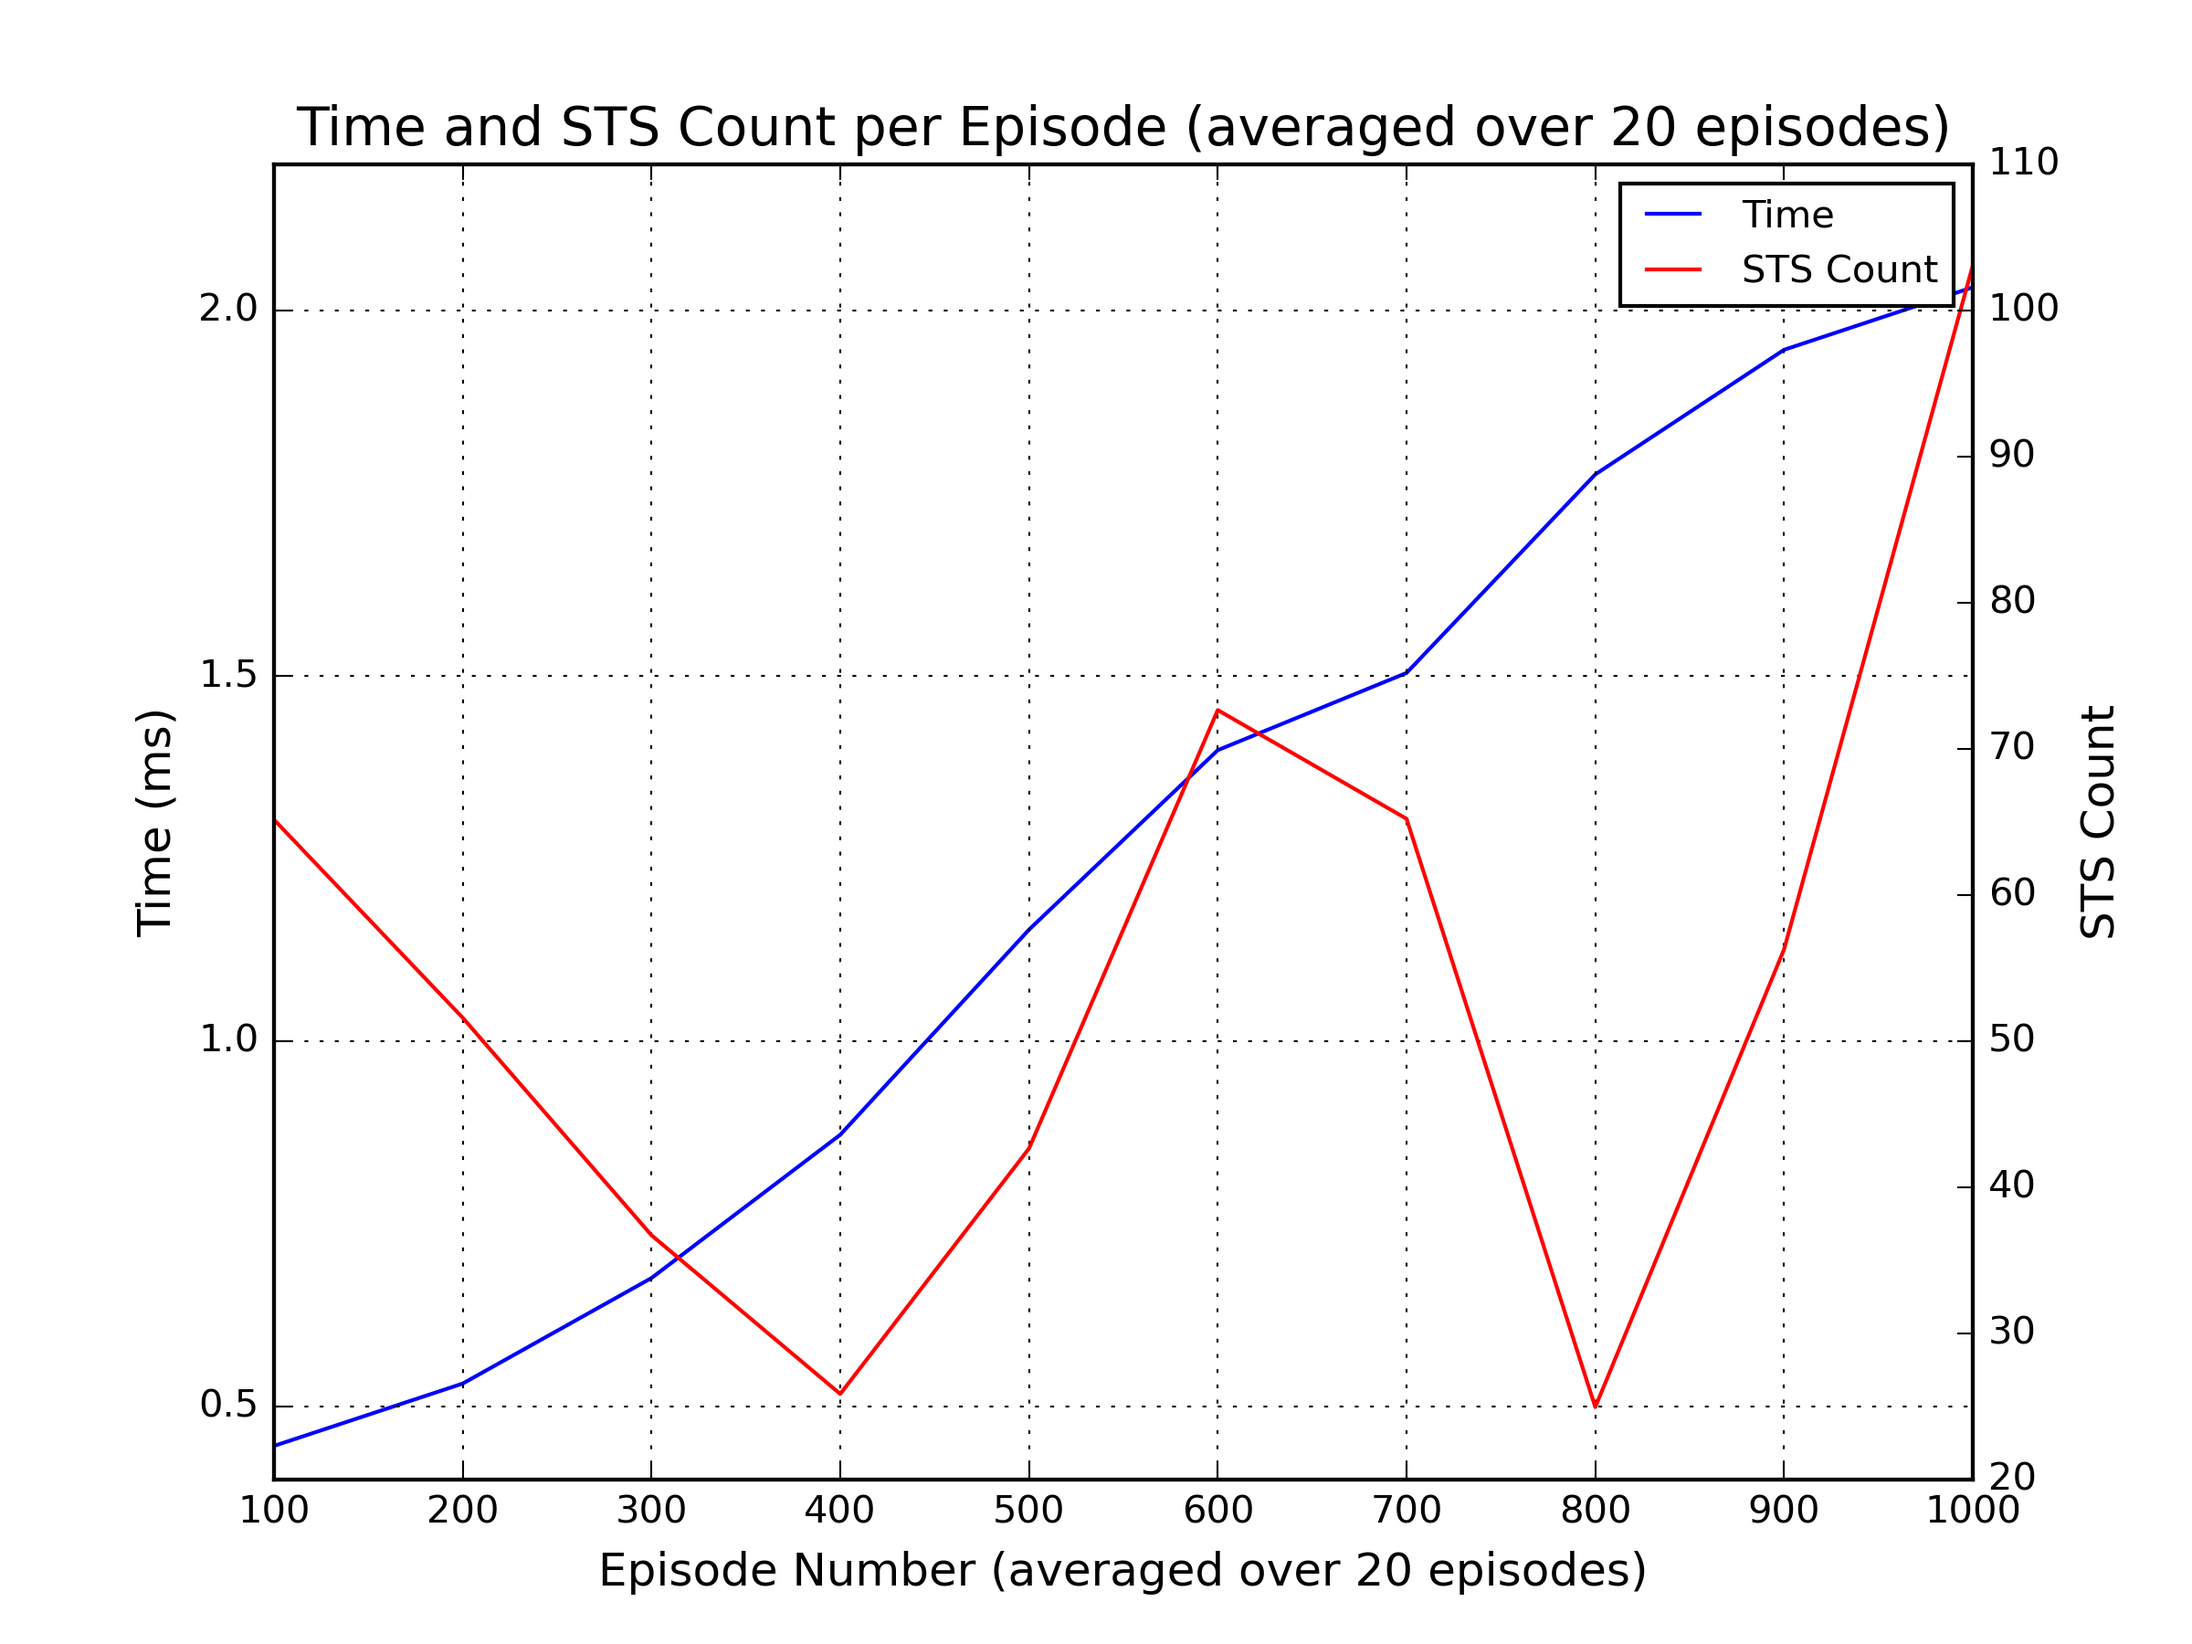
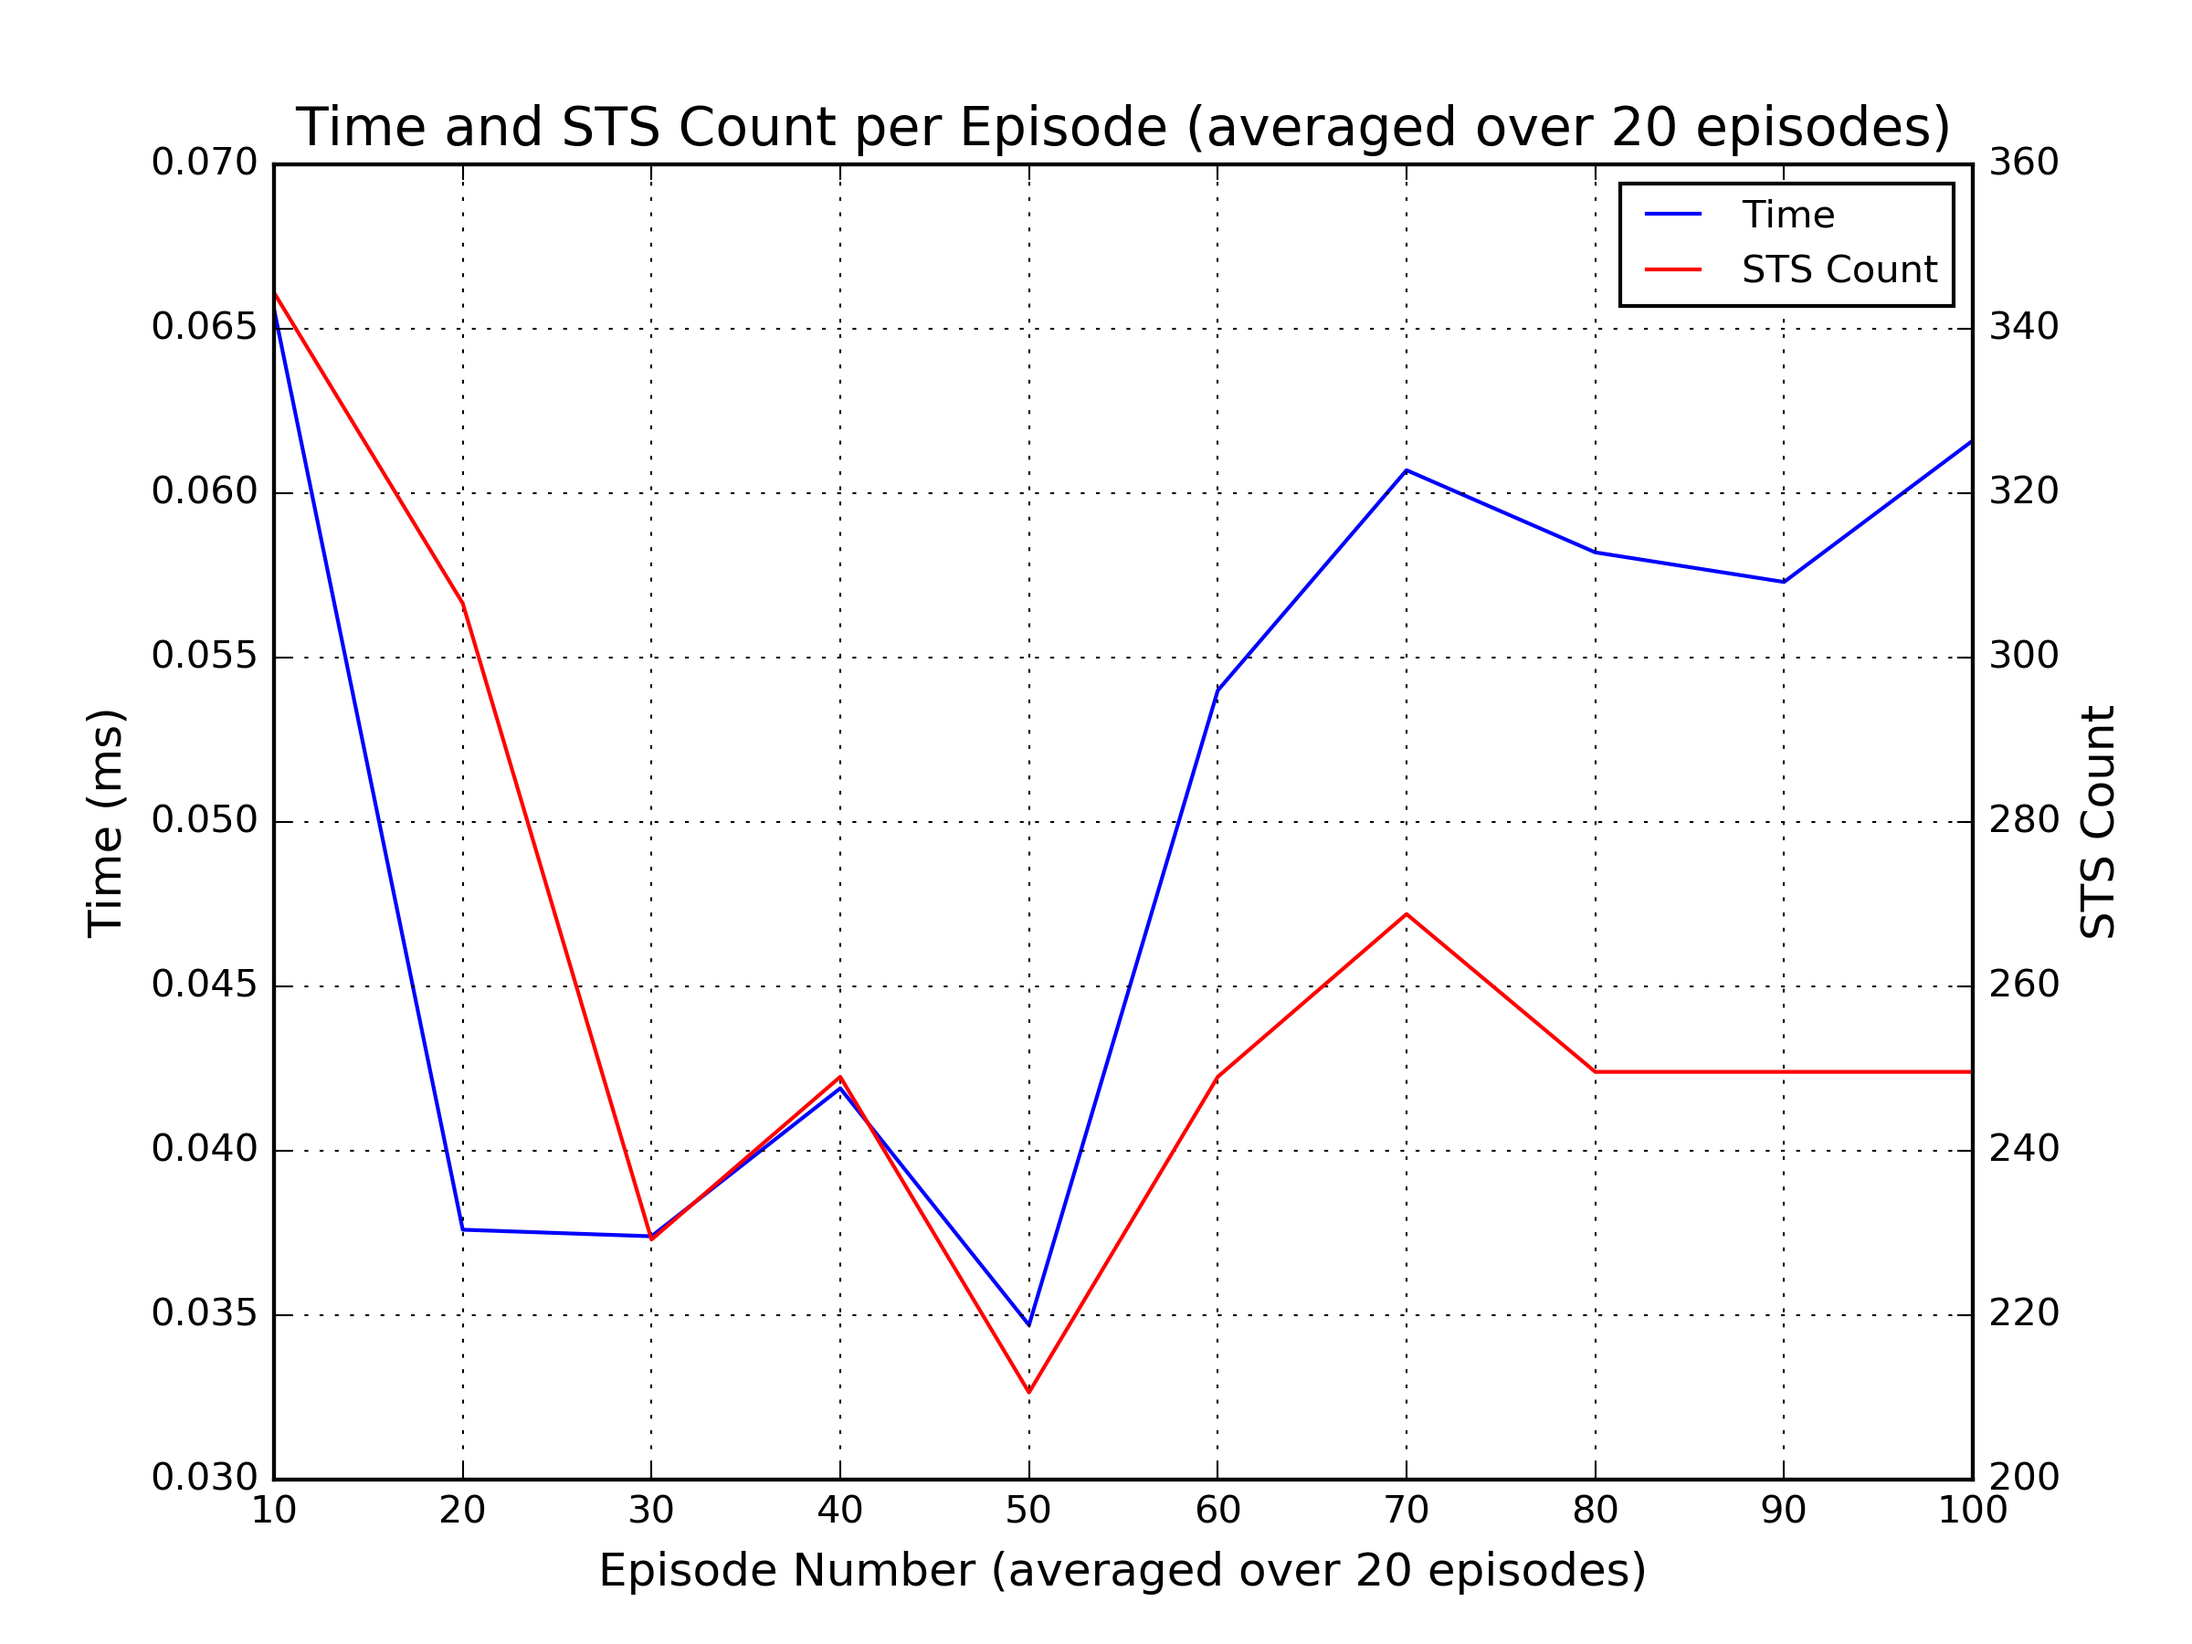
0501update

diff --git a/Actor_Critic_final/Result_2.py b/Actor_Critic_final/Result_2.py
@@ -9,7 +9,7 @@ total_sts = np.genfromtxt('total_STS.txt')
 episode_numbers = np.arange(1, len(total_times) + 1)
 
 # 50개씩 묶어 평균을 구함
-bin_size = 100
+bin_size = 10
 total_times_avg = np.mean(total_times.reshape(-1, bin_size), axis=1)
 total_sts_avg = np.mean(total_sts.reshape(-1, bin_size), axis=1)
 episode_numbers_avg = np.arange(1, len(total_times_avg) + 1) * bin_size
